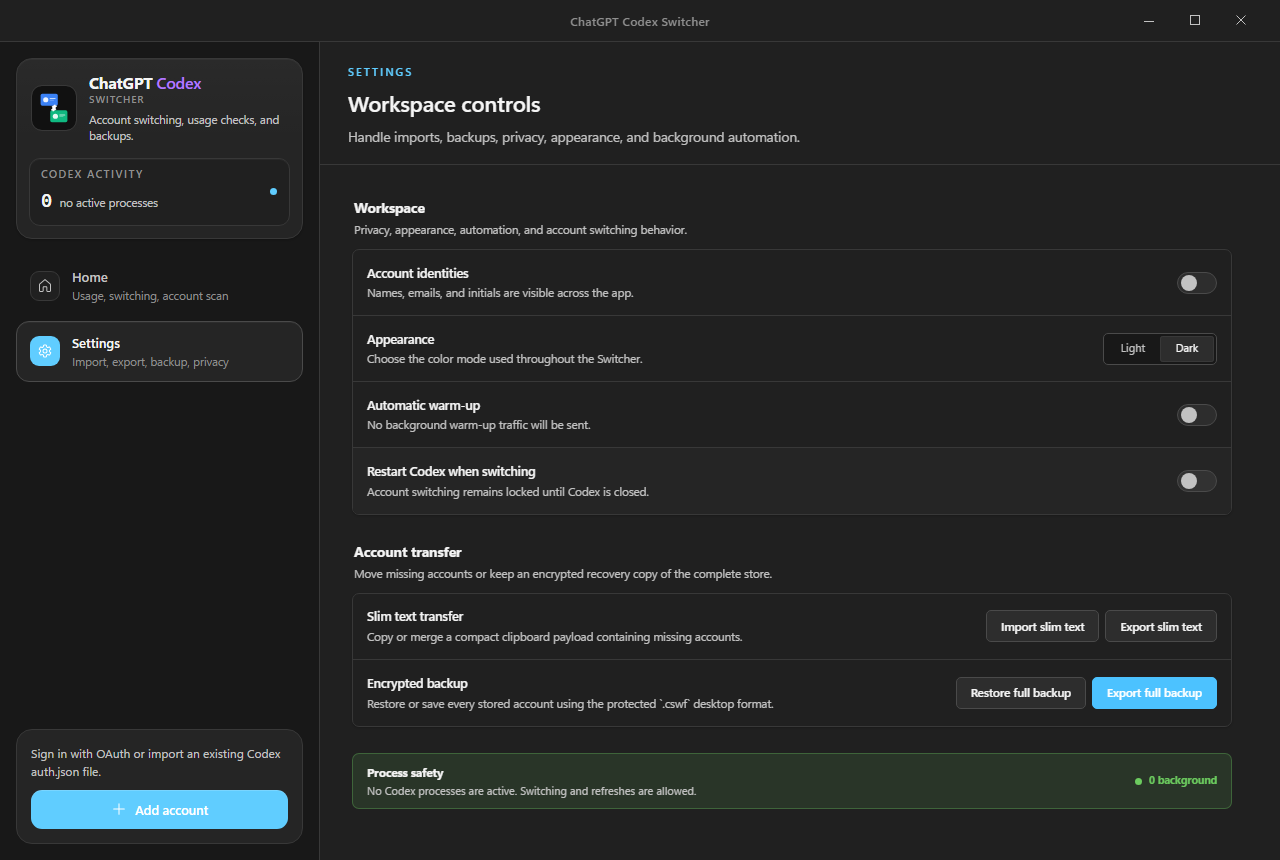
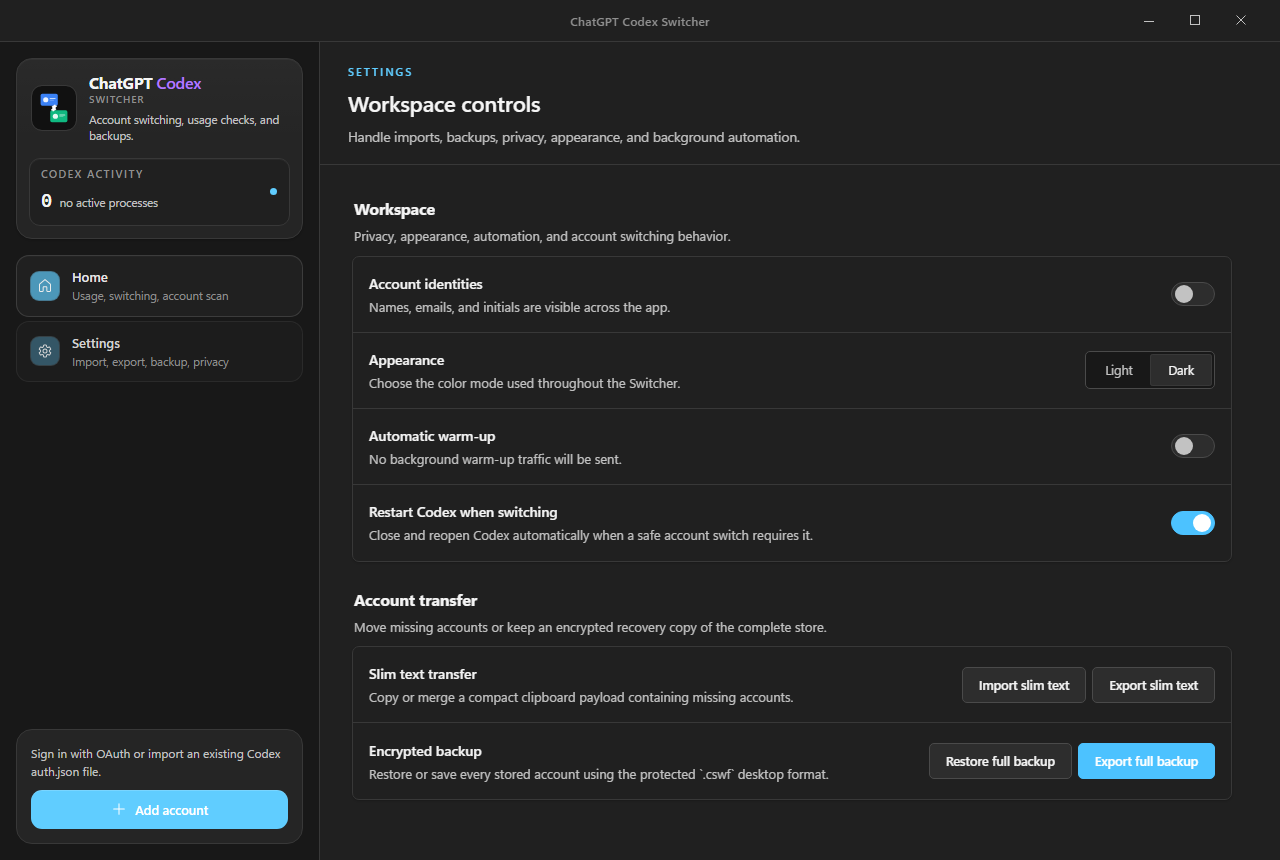
fix: improve settings readability

diff --git a/src/App.css b/src/App.css
@@ -1586,16 +1586,16 @@ textarea {
 .settings-native-group-heading h3 {
   margin: 0;
   color: var(--text-strong);
-  font-size: 14px;
+  font-size: 16px;
   font-weight: 650;
   letter-spacing: -0.01em;
 }
 
 .settings-native-group-heading p {
-  margin: 4px 0 0;
+  margin: 5px 0 0;
   color: var(--text-muted);
-  font-size: 11.5px;
-  line-height: 1.45;
+  font-size: 13px;
+  line-height: 1.5;
 }
 
 .settings-native-list {
@@ -1607,12 +1607,12 @@ textarea {
 }
 
 .settings-native-row {
-  min-height: 66px;
+  min-height: 76px;
   display: grid;
   grid-template-columns: minmax(0, 1fr) auto;
   align-items: center;
   gap: 24px;
-  padding: 11px 14px;
+  padding: 14px 16px;
   border-bottom: 1px solid var(--hairline);
   transition: background-color 140ms ease;
 }
@@ -1632,17 +1632,17 @@ textarea {
 .settings-native-row-copy strong {
   display: block;
   color: var(--text-strong);
-  font-size: 12.5px;
+  font-size: 14px;
   font-weight: 600;
   letter-spacing: -0.005em;
 }
 
 .settings-native-row-copy span {
   display: block;
-  margin-top: 3px;
+  margin-top: 4px;
   color: var(--text-muted);
-  font-size: 11.5px;
-  line-height: 1.4;
+  font-size: 13px;
+  line-height: 1.45;
   text-wrap: pretty;
 }
 
@@ -1656,10 +1656,10 @@ textarea {
 }
 
 .settings-native-switch {
-  width: 40px;
-  height: 22px;
+  width: 44px;
+  height: 24px;
   position: relative;
-  flex: 0 0 40px;
+  flex: 0 0 44px;
   padding: 0;
   border: 1px solid var(--hairline-strong);
   border-radius: var(--radius-pill);
@@ -1670,8 +1670,8 @@ textarea {
 }
 
 .settings-native-switch span {
-  width: 16px;
-  height: 16px;
+  width: 18px;
+  height: 18px;
   position: absolute;
   top: 2px;
   left: 3px;
@@ -1692,7 +1692,7 @@ textarea {
 }
 
 .settings-native-switch.on span {
-  left: 19px;
+  left: 21px;
   background: white;
 }
 
@@ -1709,12 +1709,12 @@ textarea {
 }
 
 .settings-segmented-control button {
-  min-width: 54px;
-  min-height: 26px;
-  padding: 0 10px;
+  min-width: 62px;
+  min-height: 32px;
+  padding: 0 12px;
   border-radius: 3px;
   color: var(--text-muted);
-  font-size: 11px;
+  font-size: 12.5px;
   cursor: pointer;
 }
 
@@ -1730,13 +1730,13 @@ textarea {
 }
 
 .settings-native-button {
-  min-height: 32px;
-  padding: 0 14px;
+  min-height: 36px;
+  padding: 0 16px;
   border: 1px solid var(--hairline-strong);
   border-radius: 5px;
   background: var(--glass-3);
   color: var(--text-strong);
-  font-size: 11.5px;
+  font-size: 12.5px;
   font-weight: 600;
   cursor: pointer;
   transition:
@@ -1764,68 +1764,10 @@ textarea {
   cursor: not-allowed;
 }
 
-.settings-native-process {
-  min-height: 56px;
-  display: flex;
-  align-items: center;
-  justify-content: space-between;
-  gap: 18px;
-  padding: 10px 14px;
-  border: 1px solid var(--success-border);
-  border-radius: 7px;
-  background: var(--success-soft);
-}
-
-.settings-native-process.busy {
-  border-color: var(--warning-border);
-  background: var(--warning-soft);
-}
-
-.settings-native-process strong {
-  display: block;
-  color: var(--text-strong);
-  font-size: 11.5px;
-  font-weight: 650;
-}
-
-.settings-native-process span {
-  display: block;
-  margin-top: 2px;
-  color: var(--text-muted);
-  font-size: 11px;
-  line-height: 1.4;
-}
-
-.settings-native-process-state {
-  display: flex;
-  align-items: center;
-  gap: 7px;
-  color: var(--success);
-  font-size: 10.5px;
-  font-weight: 650;
-  white-space: nowrap;
-}
-
-.settings-native-process.busy .settings-native-process-state {
-  color: var(--warning);
-}
-
-.settings-native-process-state i {
-  width: 7px;
-  height: 7px;
-  border-radius: 50%;
-  background: currentColor;
-}
-
 @media (max-width: 820px) {
   .settings-native-row {
     align-items: flex-start;
     grid-template-columns: 1fr;
-  }
-
-  .settings-native-process {
-    align-items: flex-start;
-    flex-direction: column;
   }
 
   .settings-native-row-control,

diff --git a/src/components/SettingsView.tsx b/src/components/SettingsView.tsx
@@ -1,5 +1,4 @@
 import type { ReactNode } from "react";
-import type { CodexProcessInfo } from "../types";
 import type { ThemeMode } from "../types/ui";
 
 interface SettingsViewProps {
@@ -7,14 +6,11 @@ interface SettingsViewProps {
   autoWarmupEnabled: boolean;
   restartSwitchEnabled: boolean;
   themeMode: ThemeMode;
-  isRefreshing: boolean;
   isAutoWarmupRunning: boolean;
   isExportingSlim: boolean;
   isImportingSlim: boolean;
   isExportingFull: boolean;
   isImportingFull: boolean;
-  processInfo: CodexProcessInfo | null;
-  hasRunningProcesses: boolean;
   onImportFullFile: () => void;
   onExportSlimText: () => void;
   onImportSlimText: () => void;
@@ -30,14 +26,11 @@ export function SettingsView({
   autoWarmupEnabled,
   restartSwitchEnabled,
   themeMode,
-  isRefreshing,
   isAutoWarmupRunning,
   isExportingSlim,
   isImportingSlim,
   isExportingFull,
   isImportingFull,
-  processInfo,
-  hasRunningProcesses,
   onImportFullFile,
   onExportSlimText,
   onImportSlimText,
@@ -177,13 +170,6 @@ export function SettingsView({
           }
         />
       </SettingsGroup>
-
-      <ProcessSafetyStatus
-        processInfo={processInfo}
-        hasRunningProcesses={hasRunningProcesses}
-        restartSwitchEnabled={restartSwitchEnabled}
-        isRefreshing={isRefreshing}
-      />
     </div>
   );
 }
@@ -294,40 +280,5 @@ function SettingsButton({
     >
       {label}
     </button>
-  );
-}
-
-function ProcessSafetyStatus({
-  processInfo,
-  hasRunningProcesses,
-  restartSwitchEnabled,
-  isRefreshing,
-}: {
-  processInfo: CodexProcessInfo | null;
-  hasRunningProcesses: boolean;
-  restartSwitchEnabled: boolean;
-  isRefreshing: boolean;
-}) {
-  const message = processInfo
-    ? hasRunningProcesses
-      ? restartSwitchEnabled
-        ? `Switching will restart ${processInfo.count} Codex ${processInfo.count === 1 ? "process" : "processes"}.`
-        : `Switching is locked until ${processInfo.count} Codex ${processInfo.count === 1 ? "process closes" : "processes close"}.`
-      : isRefreshing
-        ? "No Codex processes are active, and refreshes are safe to run right now."
-        : "No Codex processes are active. Switching and refreshes are allowed."
-    : "Process status is still loading.";
-
-  return (
-    <aside className={`settings-native-process ${hasRunningProcesses ? "busy" : ""}`}>
-      <div>
-        <strong>Process safety</strong>
-        <span>{message}</span>
-      </div>
-      <div className="settings-native-process-state">
-        <i />
-        {processInfo ? `${processInfo.background_count} background` : "Checking"}
-      </div>
-    </aside>
   );
 }

diff --git a/src/components/SettingsView.test.tsx b/src/components/SettingsView.test.tsx
@@ -2,15 +2,7 @@ import { render, screen } from "@testing-library/react";
 import userEvent from "@testing-library/user-event";
 import type { ComponentProps } from "react";
 import { describe, expect, it, vi } from "vitest";
-import type { CodexProcessInfo } from "../types";
 import { SettingsView } from "./SettingsView";
-
-const processInfo: CodexProcessInfo = {
-  count: 0,
-  background_count: 0,
-  can_switch: true,
-  pids: [],
-};
 
 function renderSettings(overrides: Partial<ComponentProps<typeof SettingsView>> = {}) {
   const props: ComponentProps<typeof SettingsView> = {
@@ -18,14 +10,11 @@ function renderSettings(overrides: Partial<ComponentProps<typeof SettingsView>> 
     autoWarmupEnabled: false,
     restartSwitchEnabled: true,
     themeMode: "dark",
-    isRefreshing: false,
     isAutoWarmupRunning: false,
     isExportingSlim: false,
     isImportingSlim: false,
     isExportingFull: false,
     isImportingFull: false,
-    processInfo,
-    hasRunningProcesses: false,
     onImportFullFile: vi.fn(),
     onExportSlimText: vi.fn(),
     onImportSlimText: vi.fn(),
@@ -87,30 +76,11 @@ describe("SettingsView", () => {
 
     expect(screen.getByRole("heading", { name: "Workspace" })).toBeInTheDocument();
     expect(screen.getByRole("heading", { name: "Account transfer" })).toBeInTheDocument();
-    expect(screen.getByText("Process safety")).toBeInTheDocument();
+    expect(screen.queryByText("Process safety")).not.toBeInTheDocument();
     expect(screen.queryByRole("button", { name: "General" })).not.toBeInTheDocument();
     expect(screen.queryByRole("button", { name: "Automation" })).not.toBeInTheDocument();
     expect(screen.queryByRole("button", { name: "Privacy" })).not.toBeInTheDocument();
     expect(screen.queryByRole("button", { name: "Transfer" })).not.toBeInTheDocument();
     expect(screen.queryByRole("button", { name: "Backups" })).not.toBeInTheDocument();
-  });
-
-  it("reports busy process safety without changing the available controls", () => {
-    renderSettings({
-      processInfo: {
-        count: 2,
-        background_count: 1,
-        can_switch: false,
-        pids: [101, 202],
-      },
-      hasRunningProcesses: true,
-      restartSwitchEnabled: false,
-    });
-
-    expect(
-      screen.getByText("Switching is locked until 2 Codex processes close.")
-    ).toBeInTheDocument();
-    expect(screen.getByText("1 background")).toBeInTheDocument();
-    expect(screen.getByRole("button", { name: /Restart switching disabled/i })).toBeInTheDocument();
   });
 });

diff --git a/src/App.tsx b/src/App.tsx
@@ -687,14 +687,11 @@ function App() {
             autoWarmupEnabled={autoWarmupEnabled}
             restartSwitchEnabled={restartSwitchEnabled}
             themeMode={themeMode}
-            isRefreshing={isRefreshing}
             isAutoWarmupRunning={isWarmingAll}
             isExportingSlim={isExportingSlim}
             isImportingSlim={isImportingSlim}
             isExportingFull={isExportingFull}
             isImportingFull={isImportingFull}
-            processInfo={processInfo}
-            hasRunningProcesses={hasRunningProcesses}
             onImportFullFile={() => {
               void handleImportFullFile();
             }}

diff --git a/docs/design/settings-directions/direction-approved.md b/docs/design/settings-directions/direction-approved.md
@@ -20,7 +20,8 @@ Follow-up authorization:
 - Remove the secondary Settings category rail completely.
 - Keep the existing global application sidebar as the only navigation rail.
 - Present every Settings option on one continuous page.
-- Preserve all four preferences, all four transfer and backup actions, and process-safety status.
+- Preserve all four preferences and all four transfer and backup actions.
+- Keep process status in the application sidebar instead of duplicating it in Settings.
 - Preserve existing callbacks, persistence, loading states, and accessibility names.
 - Do not change Home or other application surfaces.
 
@@ -28,4 +29,11 @@ Follow-up authorization:
 
 - Production rendering: `implemented-single-page.png`
 - The existing application sidebar is the only navigation rail.
-- All preferences, transfer actions, backup actions, and process status remain visible on one page.
+- All preferences, transfer actions, and backup actions remain visible on one page.
+
+## Follow-up refinement
+
+> "have similar thing at left pannel no need of it..also texts in settings really feels small"
+
+- Remove the duplicate Process safety strip from Settings.
+- Increase the Settings type and control scale while keeping the approved one-page structure.
